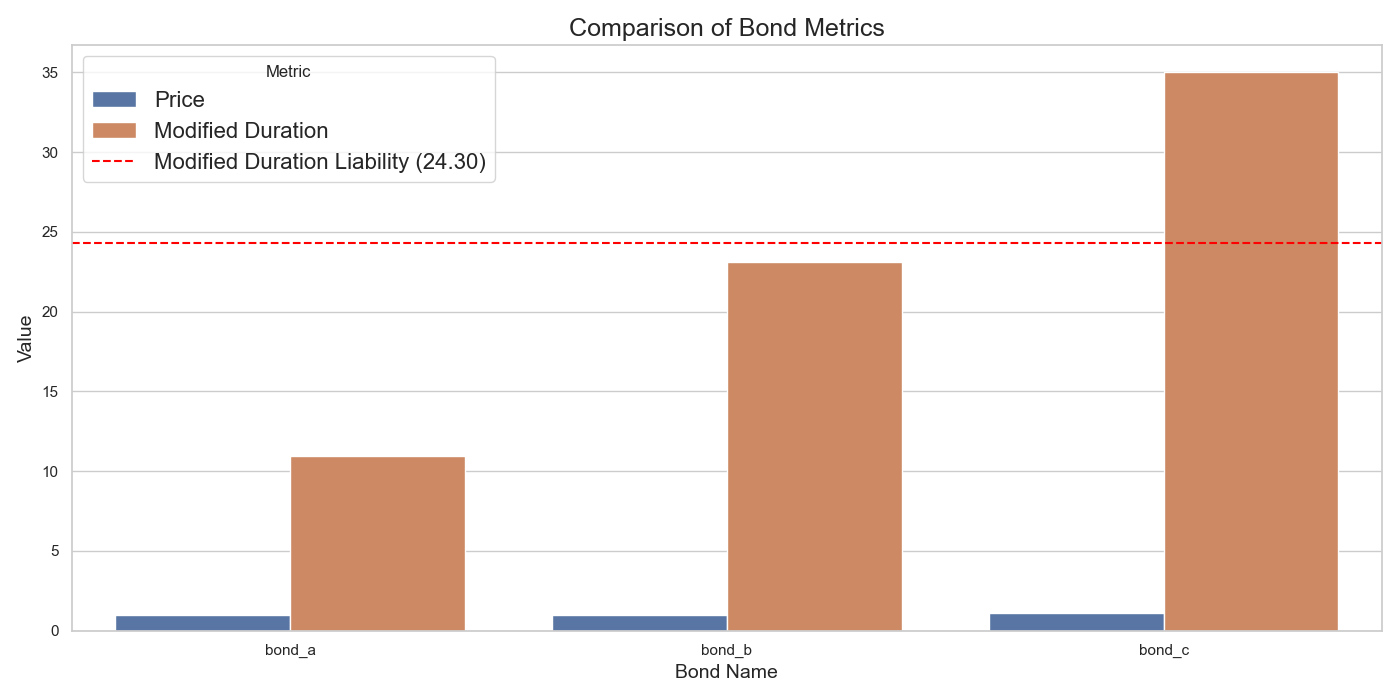
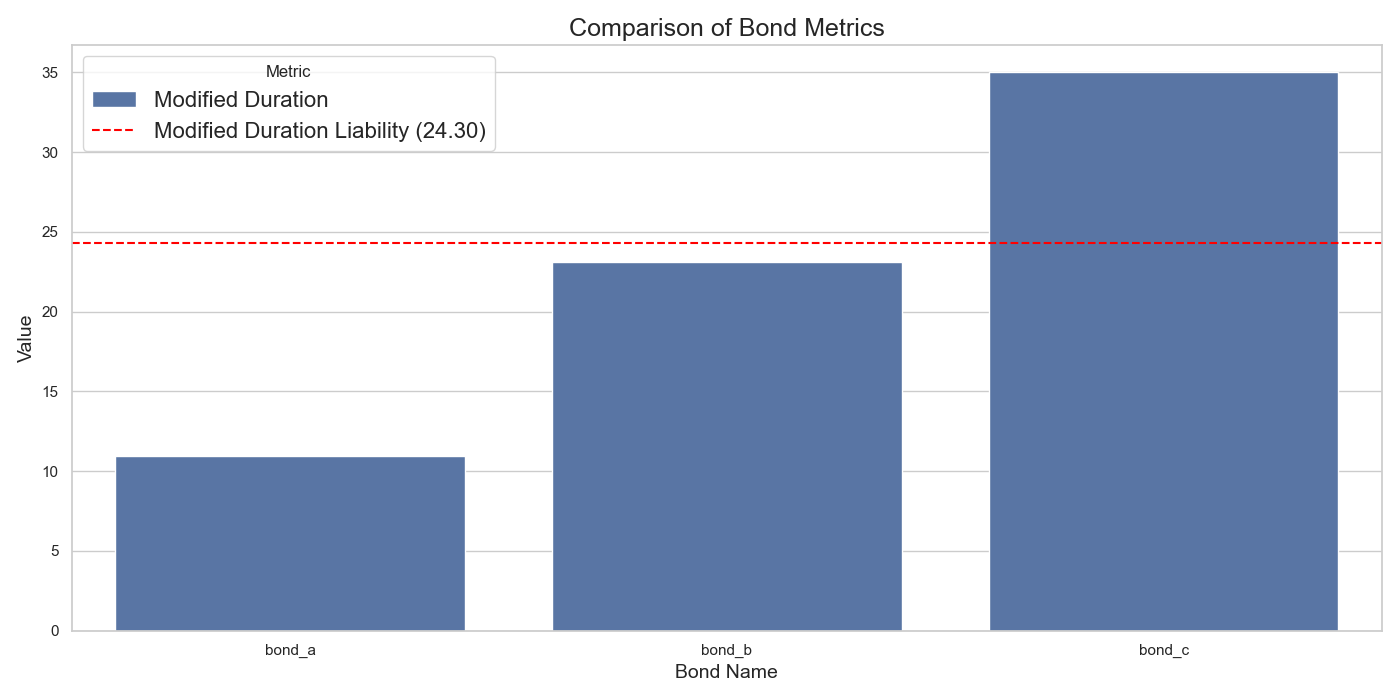
plot

diff --git a/pensionfund/utils/plotting.py b/pensionfund/utils/plotting.py
@@ -166,7 +166,7 @@ class Plotting:
         # Melt the DataFrame for easier plotting with seaborn
         df_melted = df.melt(
             id_vars=["Bond Name"],
-            value_vars=["Price", "Modified Duration"],
+            value_vars=["Modified Duration"],
             var_name="Metric",
             value_name="Value",
         )
